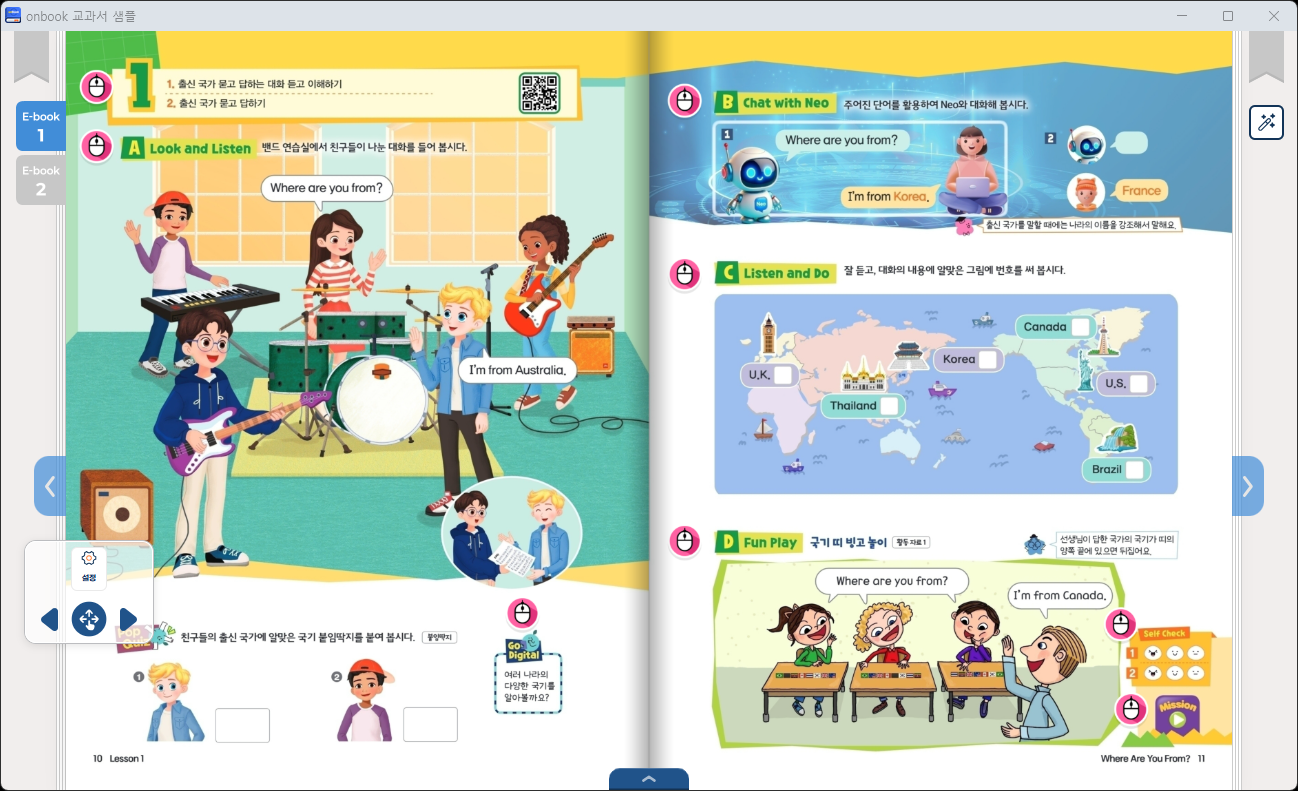
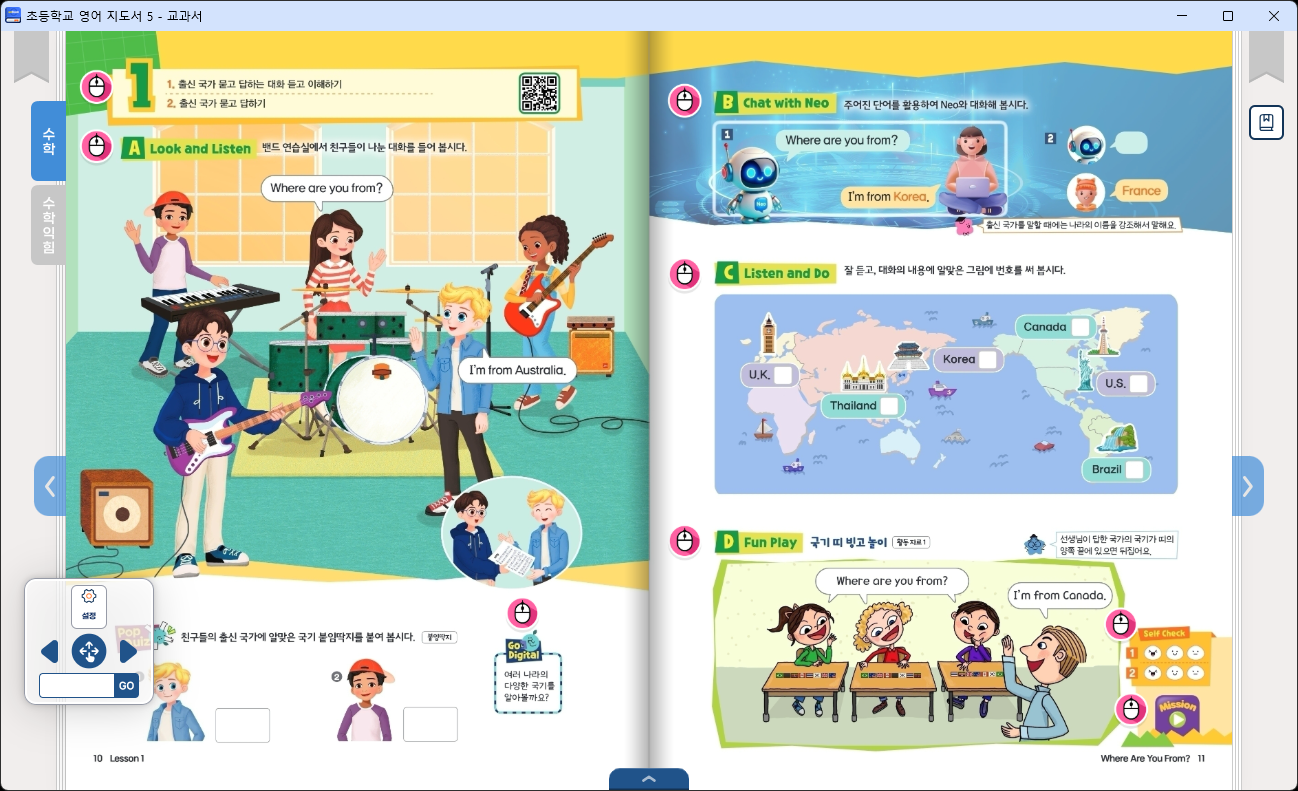
docs: 뷰어 가이드 - v1.1.001, 1.1.0 기능·1회 설치·설치 폴더 주의·책 탭 갱신
- 개발자·사용자 가이드 문서 v1.1.001(뷰어 v1.1.0)
- 개발자 가이드: 같은 책은 한 번만 설치 안내, 책 탭 설정을 세로형 탭 예시로 갱신
- 사용자 가이드: 한 번만 설치·설치 폴더 직접 삭제/이동 주의, 하단 활동 도우미, 진도 저장, 내 수업하기 도움말
- 뷰어 화면 스크린샷 최신 화면으로 교체

diff --git a/docs/ob-viewer-user-guide.html b/docs/ob-viewer-user-guide.html
@@ -13,7 +13,7 @@
         <h1>OnBook 뷰어 사용자 가이드</h1>
         <p>OnBook 뷰어의 화면과 기능 안내</p>
       </div>
-      <span class="meta">문서 v1.0.002 (뷰어 v1.0.0)</span>
+      <span class="meta">문서 v1.1.001 (뷰어 v1.1.0)</span>
     </div>
     <div class="backdrop"></div>
 
@@ -57,8 +57,14 @@
       <main class="content">
         <!-- 변경 이력 -->
         <details class="changelog">
-          <summary>변경 이력<span class="changelog-latest">최신 문서 v1.0.002</span></summary>
+          <summary>변경 이력<span class="changelog-latest">최신 문서 v1.1.001</span></summary>
           <div class="changelog-body">
+            <div class="changelog-item">
+              <div class="changelog-ver">v1.1.001<span class="changelog-date">2026-10-02</span><span class="changelog-prod">뷰어 v1.1.0</span></div>
+              <ul>
+                <li>PC 설치형 — 설치된 교과서 폴더를 직접 삭제·이동하지 말라는 주의 안내 추가</li>
+              </ul>
+            </div>
             <div class="changelog-item">
               <div class="changelog-ver">v1.0.002<span class="changelog-date">2026-08-10</span><span class="changelog-prod">뷰어 v1.0.0</span></div>
               <ul>
@@ -121,9 +127,18 @@
                     교과서 업데이트는 <strong>내 컴퓨터로 복사 후 실행</strong>(PC에 설치된 교과서)에서만 가능합니다.
                     <strong>USB로 바로 실행</strong>은 교과서 업데이트를 사용할 수 없습니다.
                   </div>
-                  <div class="callout note" style="margin: 0">
+                  <div class="callout note" style="margin: 0 0 8px">
                     설치를 선택하면 바탕화면에 교과서 바로가기와 함께 <strong>OnBookManager</strong>가 만들어집니다. 이를 실행하면
                     설치된 교과서 목록을 확인하고 <strong>실행 · 삭제</strong>할 수 있습니다.
+                  </div>
+                  <div class="callout note" style="margin: 0 0 8px">
+                    같은 교과서는 설치 위치와 상관없이 <strong>한 번만 설치</strong>됩니다. 이미 설치된 교과서에서
+                    <strong>내 컴퓨터로 복사 후 실행</strong>을 누르면 설치 위치를 알려 주고 설치된 교과서를 바로 실행합니다.
+                  </div>
+                  <div class="callout warn" style="margin: 0">
+                    설치된 교과서 폴더(기본 위치 <span class="kbd path">C:\OnBook</span> 아래)를 직접 삭제하거나 다른 곳으로 옮기지 마세요.
+                    바탕화면 바로가기와 OnBookManager 목록이 동작하지 않게 됩니다. 교과서를 지울 때는 OnBookManager의
+                    <span class="kbd">데이터 삭제</span>를 이용해 주세요.
                   </div>
                 </td>
               </tr>
@@ -282,6 +297,10 @@
                 <td>스크랩 한 자료, 인터넷 주소(URL), 파일 등 추가 기능을 사용하여 나만의 수업 차시를 구성할 수 있습니다. (<a href="#my-class">내 수업하기</a> 참고)</td>
               </tr>
               <tr>
+                <td class="feature-name">활동 도우미</td>
+                <td>칠판, 타이머, 주의 집중, 깜깜이, 모둠 점수판, 발표 도우미, 벌칙 고르기 기능을 사용할 수 있습니다. (<a href="#toolkit">활동 도우미</a> 참고)</td>
+              </tr>
+              <tr>
                 <td class="feature-name">도움말</td>
                 <td>기능들에 대한 설명을 볼 수 있습니다.</td>
               </tr>
@@ -294,6 +313,9 @@
 
           <h3>북마크</h3>
           <p>페이지 위쪽 모서리의 <strong>북마크 버튼</strong>으로 북마크 표시할 수 있습니다. 표시한 페이지는 <strong>썸네일</strong>과 <strong>내 자료함</strong>에서 볼 수 있습니다.</p>
+
+          <h3>진도 저장</h3>
+          <p>화면 오른쪽의 <span class="kbd">진도 저장</span> 버튼으로 현재 교과서 학습 위치를 <strong>반별로</strong> 저장할 수 있습니다. 저장한 진도는 홈 화면의 <strong>진도 보기</strong>에서 확인할 수 있습니다.</p>
 
           <h3>퀵 메뉴바</h3>
           <p>
@@ -331,6 +353,7 @@
           <h2>내 수업하기</h2>
           <p>
             차시 콘텐츠·수업 스크랩·자료를 원하는 순서로 조합해 <strong>나만의 수업</strong>을 만들고 저장하는 화면입니다.
+            상단의 <span class="kbd">도움말</span>을 누르면 화면 구성과 사용 방법을 볼 수 있습니다.
           </p>
           <figure class="shot">
             <img src="assets/images/viewer/myclass_1.png" alt="내 수업하기 화면" />
@@ -399,7 +422,7 @@
         <!-- ============================ 활동 도우미 ============================ -->
         <section id="toolkit">
           <h2>활동 도우미</h2>
-          <p>화면 오른쪽 메뉴의 <span class="kbd">활동 도우미</span>에는 수업 진행에 유용한 도구들이 모여 있습니다.</p>
+          <p><span class="kbd">활동 도우미</span>(교과서 화면은 하단 메뉴, 콘텐츠 화면은 오른쪽 메뉴)에는 수업 진행에 유용한 도구들이 모여 있습니다.</p>
           <table>
             <thead>
               <tr>
@@ -508,7 +531,7 @@
       </main>
     </div>
 
-    <div class="footer"><span>OnBook 뷰어 사용자 가이드 · 문서 v1.0.002 (뷰어 v1.0.0)</span><span>&copy; 2026 Amanta</span></div>
+    <div class="footer"><span>OnBook 뷰어 사용자 가이드 · 문서 v1.1.001 (뷰어 v1.1.0)</span><span>&copy; 2026 Amanta</span></div>
 
     <script src="assets/guide.js"></script>
   </body>

diff --git a/docs/ob-viewer-dev-guide.html b/docs/ob-viewer-dev-guide.html
@@ -58,7 +58,7 @@
         </p>
       </div>
       <div class="meta">
-        문서 v1.0.002 (뷰어 v1.0.0) &nbsp;·&nbsp; 콘텐츠 개발사용
+        문서 v1.1.001 (뷰어 v1.1.0) &nbsp;·&nbsp; 콘텐츠 개발사용
       </div>
     </div>
     <div class="backdrop"></div>
@@ -127,9 +127,23 @@
         <!-- 변경 이력 -->
         <details class="changelog">
           <summary>
-            변경 이력<span class="changelog-latest">최신 문서 v1.0.002</span>
+            변경 이력<span class="changelog-latest">최신 문서 v1.1.001</span>
           </summary>
           <div class="changelog-body">
+            <div class="changelog-item">
+              <div class="changelog-ver">
+                v1.1.001<span class="changelog-date">2026-10-02</span
+                ><span class="changelog-prod">뷰어 v1.1.0</span>
+              </div>
+              <ul>
+                <li>
+                  <a href="#vw-install">설치본 만들기</a> — 같은 책은 한 번만 설치되는 동작 안내 추가
+                </li>
+                <li>
+                  <a href="#vw-booktab">책 탭 설정</a> — 세로형 탭 예시로 스크린샷·크기 예시 갱신
+                </li>
+              </ul>
+            </div>
             <div class="changelog-item">
               <div class="changelog-ver">
                 v1.0.002<span class="changelog-date">2026-08-10</span
@@ -1060,11 +1074,11 @@
               />
               <span
                 class="spot"
-                style="left: 0.9%; top: 11.8%; width: 4.9%; height: 15%"
+                style="left: 2.08%; top: 12.26%; width: 3.31%; height: 21.74%"
               ></span>
             </span>
             <figcaption>
-              ebook 뷰어 왼쪽 상단의 책 탭 (E-book 1 · E-book 2)
+              ebook 뷰어 왼쪽 상단의 책 탭 (예: 수학 · 수학익힘)
             </figcaption>
           </figure>
           <h3>작성 방법</h3>
@@ -1076,7 +1090,7 @@
             <span class="s">"hoverImage"</span><span class="p">:</span> <span class="s">"./tab01_0002.png"</span><span class="p">,</span>     <span class="c">← 기본 마우스 오버</span>
             <span class="s">"activeImage"</span><span class="p">:</span> <span class="s">"./tab01_0003.png"</span><span class="p">,</span>    <span class="c">← 현재 보는 책</span>
             <span class="s">"activeHoverImage"</span><span class="p">:</span> <span class="s">"./tab01_0004.png"</span><span class="p">,</span> <span class="c">← 현재 보는 책 마우스 오버</span>
-            <span class="s">"width"</span><span class="p">:</span> <span class="s">"50px"</span><span class="p">,</span> <span class="s">"height"</span><span class="p">:</span> <span class="s">"50px"</span>
+            <span class="s">"width"</span><span class="p">:</span> <span class="s">"35px"</span><span class="p">,</span> <span class="s">"height"</span><span class="p">:</span> <span class="s">"80px"</span>
         <span class="p">},</span>
         <span class="p">{</span> <span class="s">"name"</span><span class="p">:</span> <span class="s">"ebook_unit02"</span><span class="p">,</span> <span class="n">…</span> <span class="p">}</span>
     <span class="p">],</span>
@@ -1720,6 +1734,11 @@
           </div>
           <p>설치 시 다음 경로로 복사됩니다.</p>
           <pre><span class="n">{INSTALL_DIR}</span><span class="p">\</span><span class="f">{P_CODE}_{SUBJECT_CODE}_{EDITION}</span><span class="p">\</span><span class="f">{TITLE}</span><span class="p">\</span>   <span class="c">예: C:\OnBook\AMT1_EEN5A_2022개정\초등학교 영어 지도서 5 전자책등\</span></pre>
+          <p>
+            같은 책(<code>P_CODE</code>·<code>SUBJECT_CODE</code>·<code>EDITION</code>·<code>TITLE</code>)은
+            설치 위치와 상관없이 <strong>한 번만 설치</strong>됩니다. 이미 설치되어 있으면 설치 위치를 알리고 설치된 책을 실행합니다.
+            다시 설치해 보려면 OnBookManager의 <span class="kbd">데이터 삭제</span>로 먼저 지워 주세요.
+          </p>
           <div class="callout warn">
             <code>start.ini</code>와 <code>autorun.inf</code>는 반드시
             <strong>EUC-KR 인코딩</strong>으로 저장해 주세요. UTF-8로 저장하면
@@ -2114,8 +2133,8 @@
 
     <div class="footer">
       <span
-        >OnBook 뷰어 개발자 가이드 · 콘텐츠 개발사용 · 문서 v1.0.002 (뷰어
-        v1.0.0)</span
+        >OnBook 뷰어 개발자 가이드 · 콘텐츠 개발사용 · 문서 v1.1.001 (뷰어
+        v1.1.0)</span
       >
       <span>&copy; 2026 Amanta</span>
     </div>
